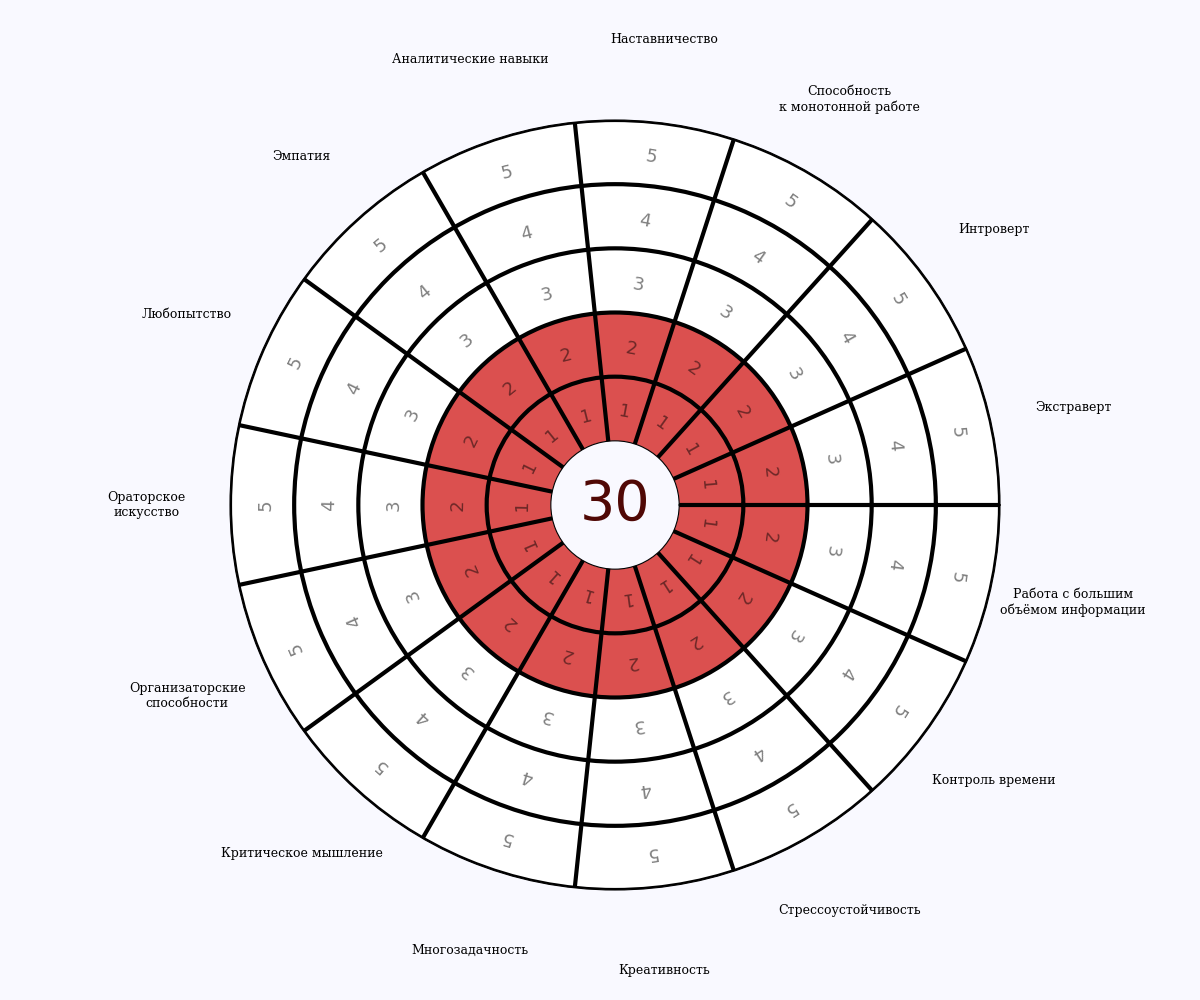
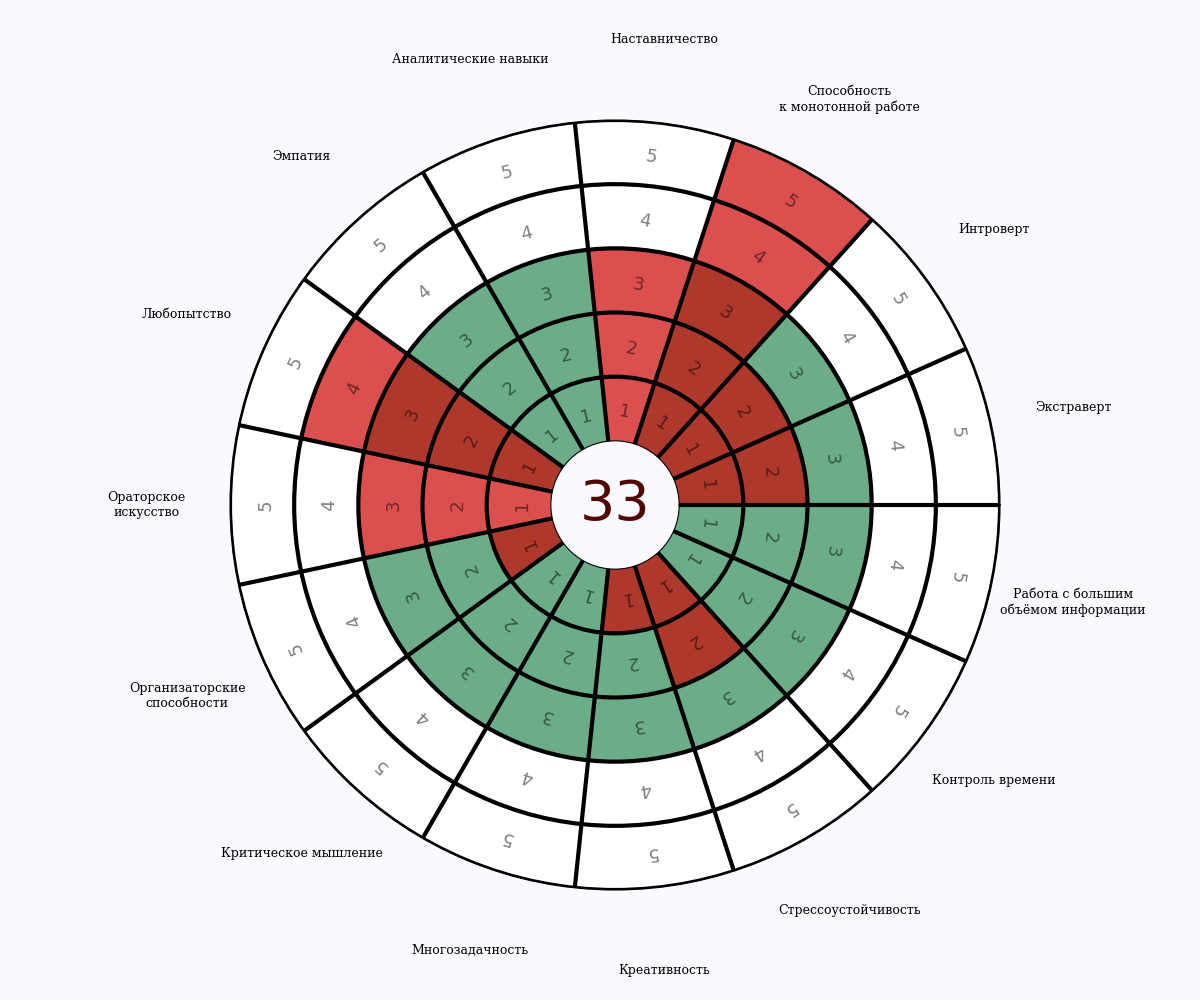
add action -count the numbers that match

Changed region(s): [[0.2467, 0.124, 0.74, 0.775]]

diff --git a/img.py b/img.py
@@ -78,8 +78,8 @@ def create_5_pl(us_id, arr_name_spec):
         plt.figure(figsize=(12,10), facecolor='#f9f9ff')#фон окна. Цвет - хлопок
         ax = plt.subplot(111, polar=True)
 
-        plt.text(-1, -1, wor.get_sum_data(df), size = 40, horizontalalignment='center',
-            verticalalignment='center', color = color)#делает в центре надпись суммы очков
+        # plt.text(-1, -1, wor.get_sum_data(df), size = 40, horizontalalignment='center',
+        #     verticalalignment='center', color = color)#делает в центре надпись суммы очков
     # --------------------Заполнение окружности по уровням 
         ycoord = 0.45
         for num in 1,2,3,4,5:
@@ -118,21 +118,25 @@ def create_5_pl(us_id, arr_name_spec):
         color_green = '#2e8b57'#зелёный
         color_red = '#cc0605'#красный
         color_wite = '#ffffff'#белый
+        bals = 0
         for r_p, r_cons, bar, bar_cons in zip (r_per, r_cons, bars, bar_cons):
             bar.set_facecolor(color_wite)
             bar_cons.set_facecolor(color_wite)
             if r_p > r_cons and r_cons > 0:
                 bar_cons.set_facecolor(color_red)
                 bar.set_facecolor(color_green)
+                bals += r_p
             if r_p == r_cons:
                 bar_cons.set_facecolor(color_green)
                 bar.set_facecolor(color_wite)
+                bals += r_p
             if r_p < r_cons:
                 bar_cons.set_facecolor(color_red)
                 bar.set_facecolor(color_green)
             if r_cons == 0:
                 bar.set_facecolor(color_red)
-        
+        plt.text(-1, -1, bals, size = 40, horizontalalignment='center',
+            verticalalignment='center', color = color)
         
         way = t.get_way_of_img_compare(us_id, name)#путь и название для картинки
         plt.savefig(way)
